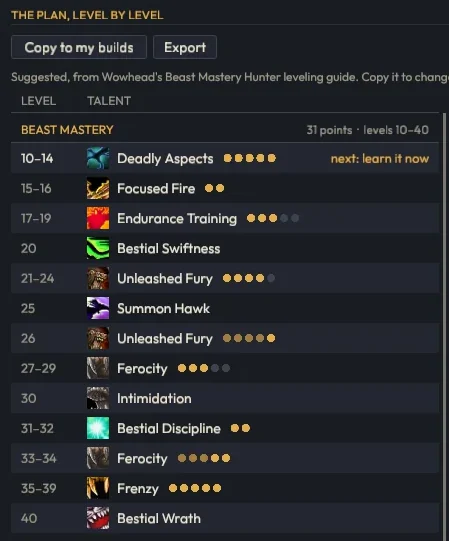
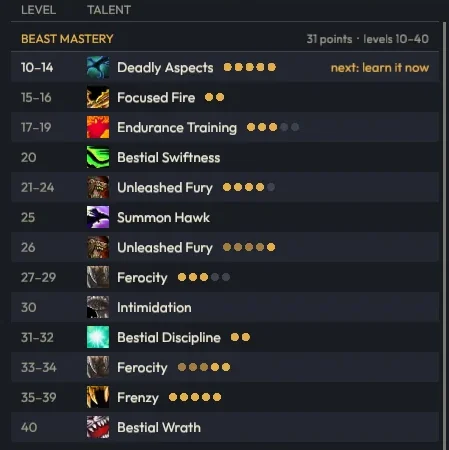
jsal.ui page: Auctionator line as the addon does it, and two close-ups recropped
The Install line and the Professions page now say that Auctionator's auction
house scan prices things only while Crafting profit is on, which it is by
default, and no longer claim more than that. The Build page's plan close-up no
longer cuts a line at its edge, and its share window is cut to the window's own
border.

diff --git a/.claude/rules/design-rules.md b/.claude/rules/design-rules.md
@@ -239,8 +239,9 @@ focus `--jsal-focus-ring`; button weight `--jsal-btn-weight`; spacing `--jsal-sp
     anything else from Forever's data, which is new and still changing; never how often it updates; never "1
     dashboard" (some pages open outside it) or "0 other addons" (an EllesmereUI profile import is planned). Then a
     **Latest release** card, a **Discord** band, the little things and Install. Install has a primary Download
-    button (the first screen's) with CurseForge and Wago as links beside it, and says what Auctionator adds: with it,
-    Professions, the shopping list and Crafting profit take its auction house scan for prices (John, 24 Nov 2026).
+    button (the first screen's) with CurseForge and Wago as links beside it, and says what Auctionator adds: with it, and
+    while Crafting profit is on (the default), the profession leveling path, the shopping list and Crafting profit
+    price things from its auction house scan (John, 24 Nov 2026).
   - **On upright phones** a whole window would be too small to read, so each shows its top corner at a readable
     size, cut off by its frame: past the dashboard's menu and title bar, by each picture's measured offsets (`cx`,
     `cy` in `jsal-ui.mjs`), so they all begin alike.
